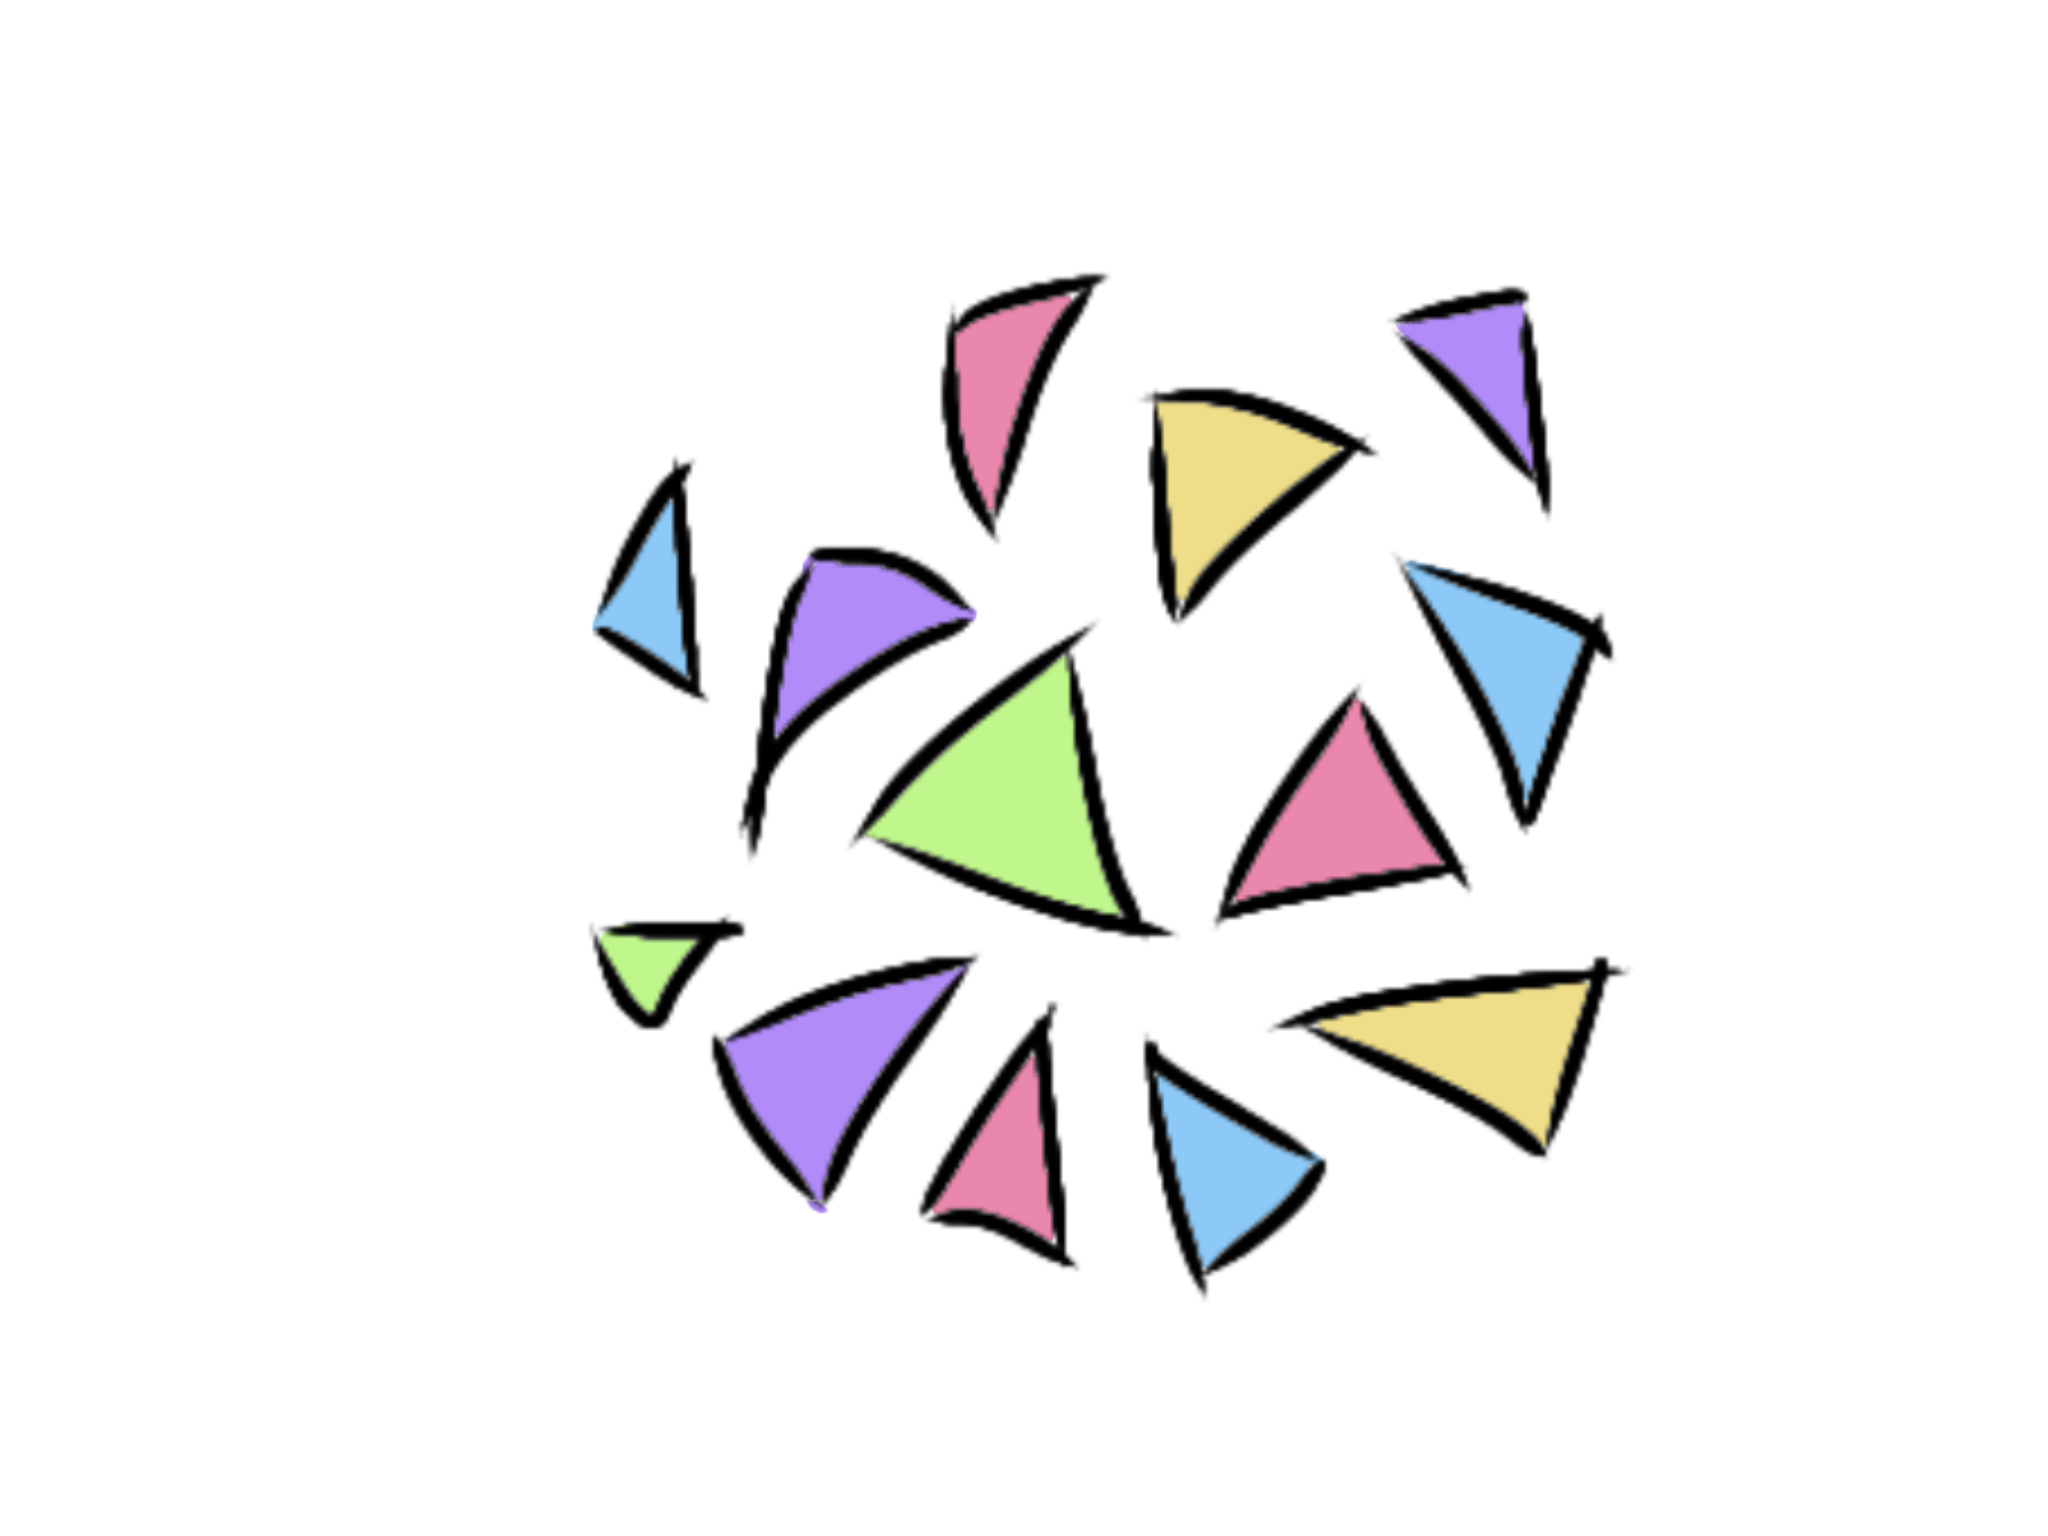
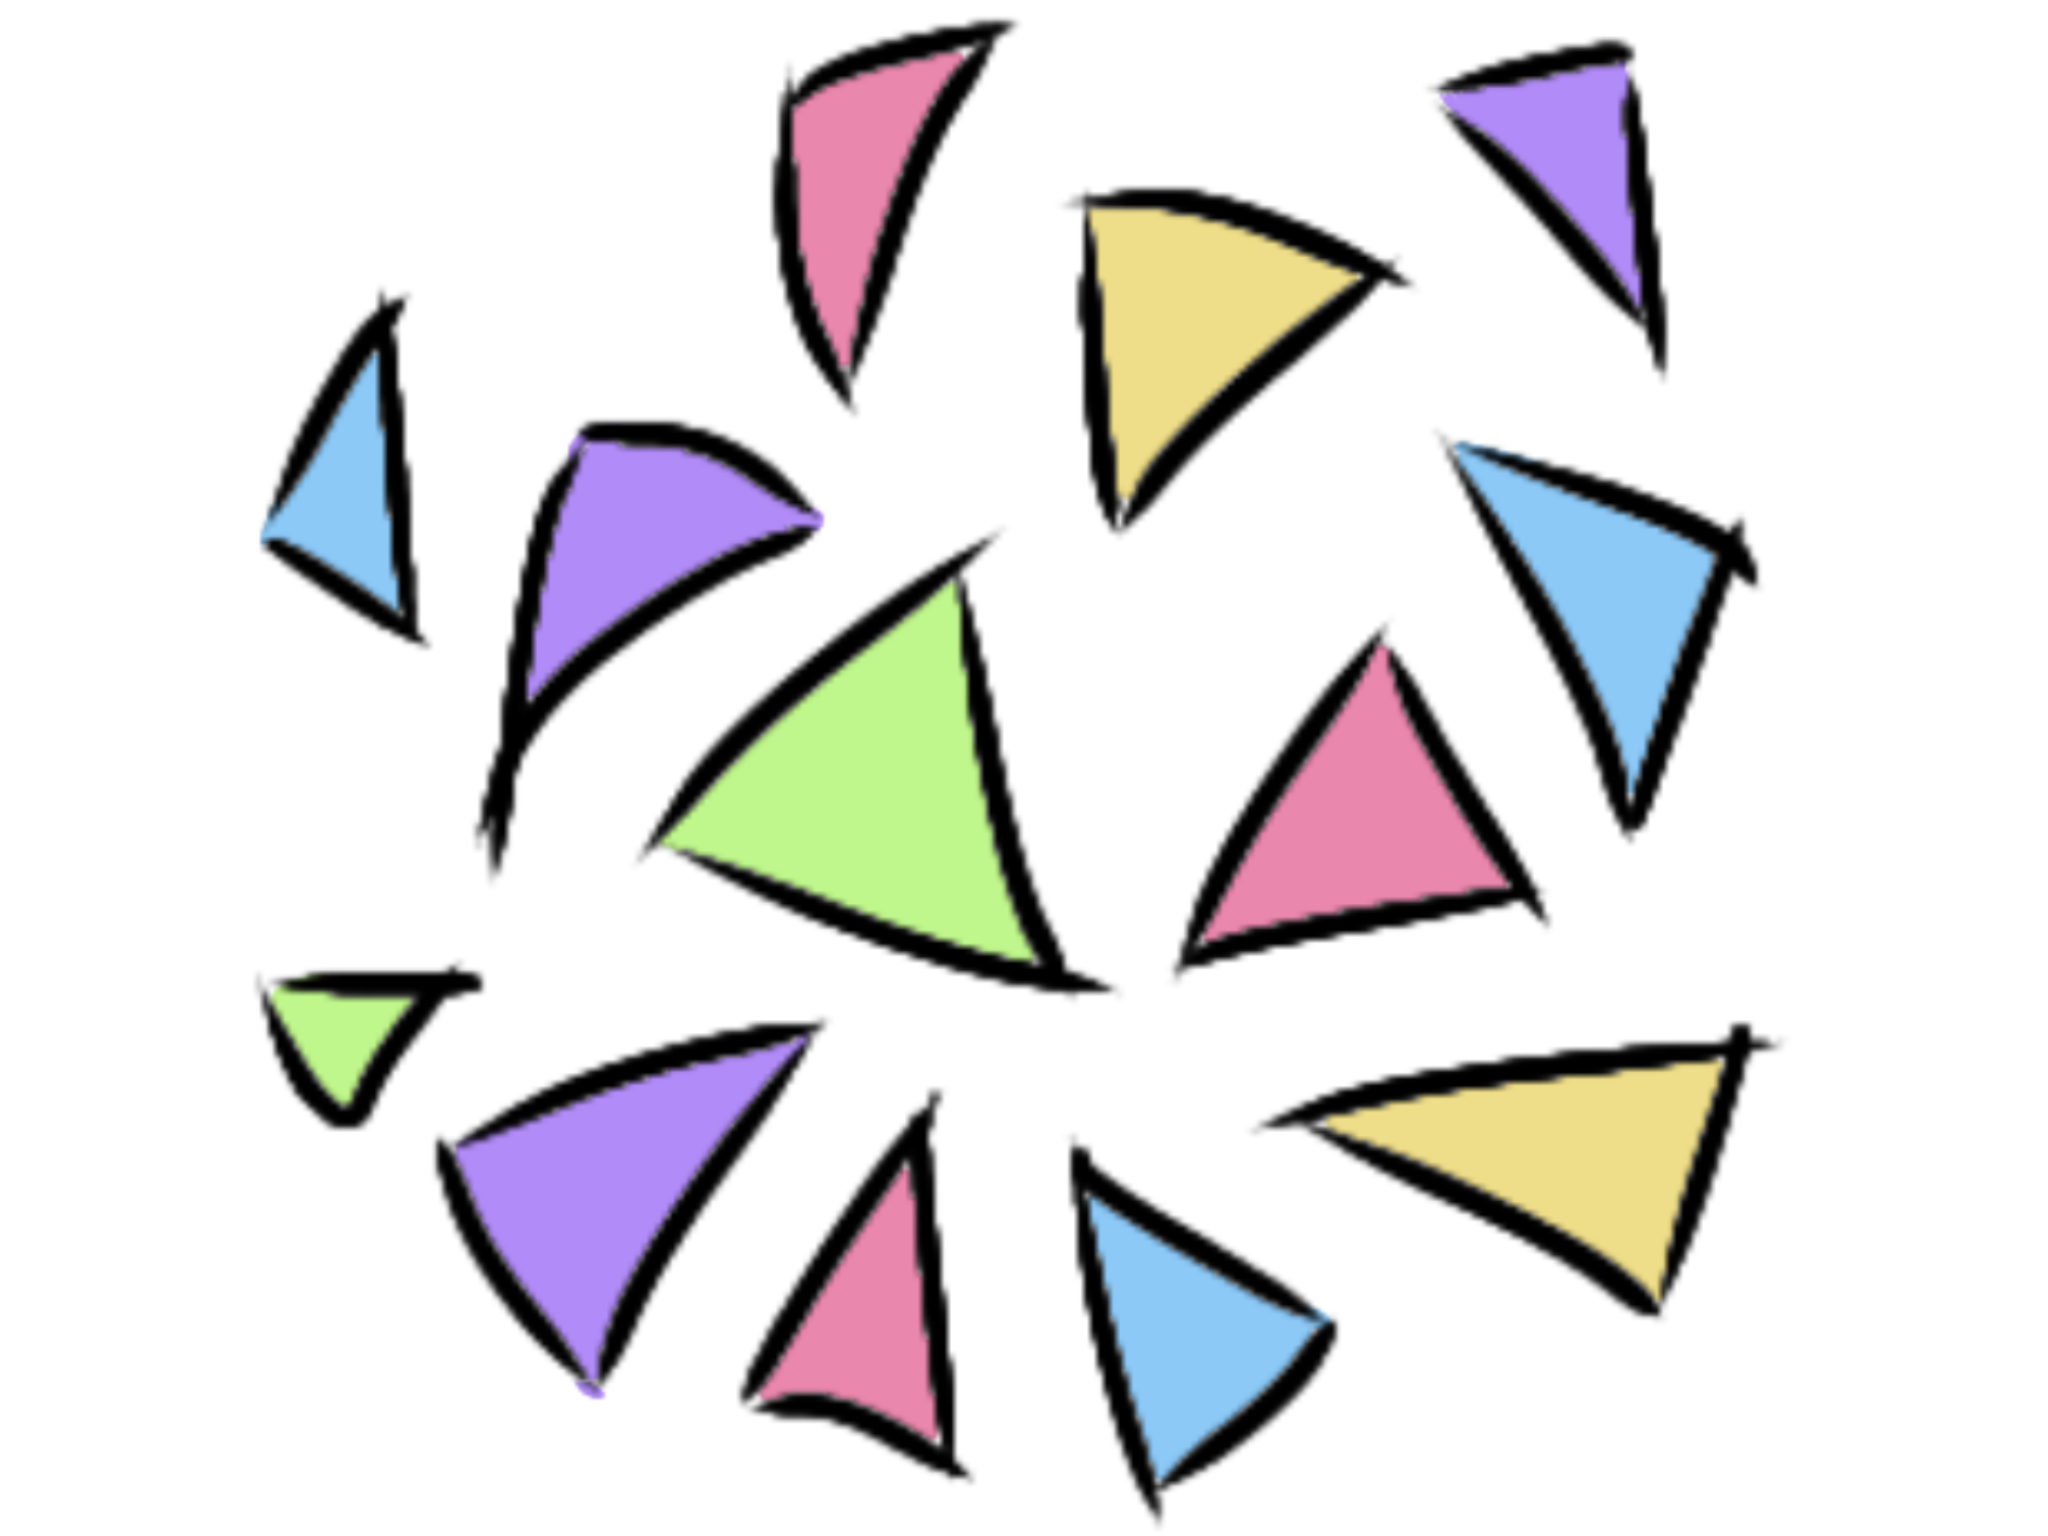
Add confetti sprite

diff --git a/src/GameManager.cpp b/src/GameManager.cpp
@@ -47,7 +47,7 @@ void Update(float delta, bool& gameIsRunning, Texture2D canion)
 	}
 }
 
-void Draw(Texture2D backgroundMenu, Texture2D backgroundGameplay, Texture2D canion)
+void Draw(Texture2D backgroundMenu, Texture2D backgroundGameplay, Texture2D canion, Texture2D confetti)
 {
 	Vector2 mousePosition = GetMousePosition();
 
@@ -63,10 +63,9 @@ void Draw(Texture2D backgroundMenu, Texture2D backgroundGameplay, Texture2D cani
 		ButtonTextDraw(mousePosition);
 		break;
 	case Screen::Play:
-		GameplayDraw(backgroundGameplay, canion);
+		GameplayDraw(backgroundGameplay, canion, confetti);
 		//Provisorio, despues cambiar a boton de pausa!
 		BackMenuButton();
-		BulletsDraw();
 		break;
 	case Screen::Rules:
 		BackMenuButton();

diff --git a/src/Game.cpp b/src/Game.cpp
@@ -15,14 +15,15 @@ void Game()
 	Font font = LoadFont("res/Font/Super Wonder.ttf");
 	Texture2D backgroundMenu = LoadTexture("res/Backgrounds/BackgroundMenu.png");
 	Texture2D backgroundGameplay = LoadTexture("res/Backgrounds/BackgroundTwo_Gameplay.png");
-
+	Texture2D canion = LoadTexture("res/Ship/Canion.png");
+	Texture2D confetti = LoadTexture("res/Ship/Confetti.png");
 
 	while (!WindowShouldClose() && gameIsRunning)
 	{
 		delta = GetFrameTime();
-		Update(delta, gameIsRunning);
+		Update(delta, gameIsRunning, canion);
 
-		Draw(backgroundMenu, backgroundGameplay);
+		Draw(backgroundMenu, backgroundGameplay, canion, confetti);
 	}
 
 	UnloadTexture(backgroundMenu);

diff --git a/src/Bullets.cpp b/src/Bullets.cpp
@@ -91,15 +91,23 @@ void ShotBullet(float delta)
 	}
 }
 
-void BulletsDraw()
+void BulletsDraw(Texture2D confetti)
 {
-#ifdef _DEBUG
+
 	for (int i = 0; i < MAX_BULLETS; i++)
 	{
 		if (bullets[i].isActive == true)
 		{
+#ifdef _DEBUG
 			DrawCircleV(bullets[i].position, bullets[i].radius, GREEN);
+#endif
+
+			Vector2 position = bullets[i].position;
+			position.x -= bullets[i].radius;
+			position.y -= bullets[i].radius;
+
+			DrawTextureEx(confetti, position, 0, 0.02f, WHITE);
 		}
 	}
-#endif
+
 }

diff --git a/src/Bullets.h b/src/Bullets.h
@@ -13,7 +13,7 @@ struct Bullets
 };
 
 const int MAX_BULLETS = 30;
-const int MAX_BULLET_RADIUS = 10;
+const int MAX_BULLET_RADIUS = 15;
 
 const float MAX_BULLET_SPEED = 300;
 const float MAX_TIME = 3;
@@ -25,6 +25,6 @@ void SetPosition(Bullets& bullet, Vector2 position);
 
 void BulletsInit(Bullets& currentBullet);
 void BulletsUpdate(Bullets& currentBullet, float delta);
-void BulletsDraw();
+void BulletsDraw(Texture2D confetti);
 
 void ShotBullet(float delta);

diff --git a/src/GameManager.h b/src/GameManager.h
@@ -12,5 +12,6 @@ enum class Screen
 
 extern Screen currentScreen;
 
-void Draw(Texture2D backgroundMenu, Texture2D backgroundGameplay, Texture2D canion);
+void Draw(Texture2D backgroundMenu, Texture2D backgroundGameplay,
+	      Texture2D canion, Texture2D confetti);
 void Update(float delta, bool& gameIsRunning, Texture2D canion);
